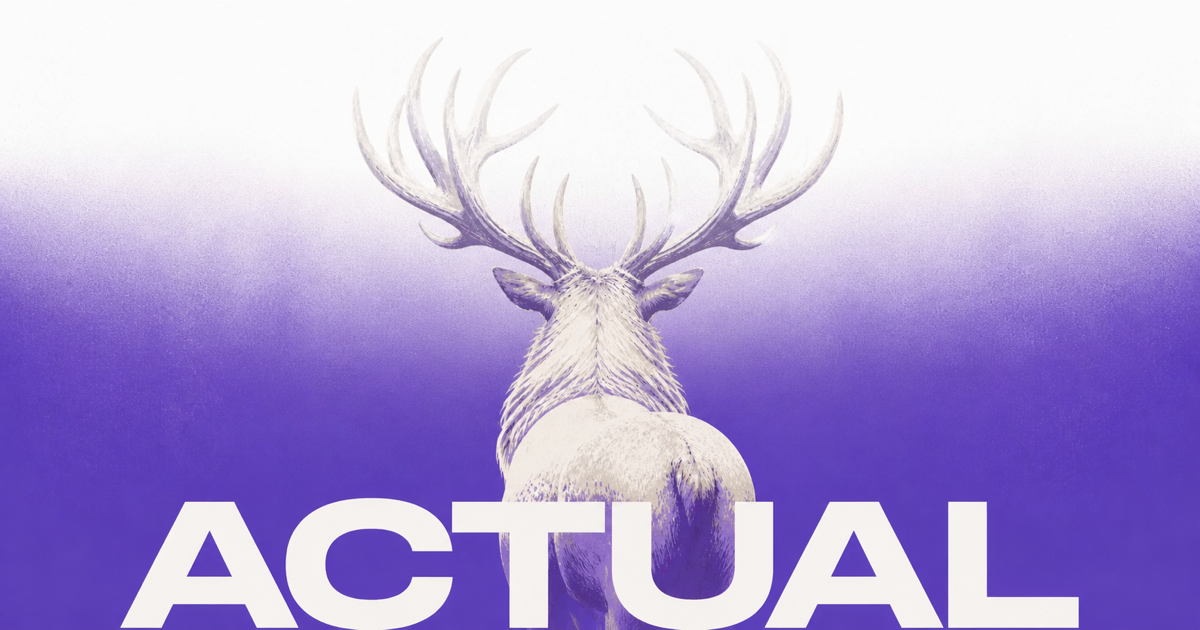
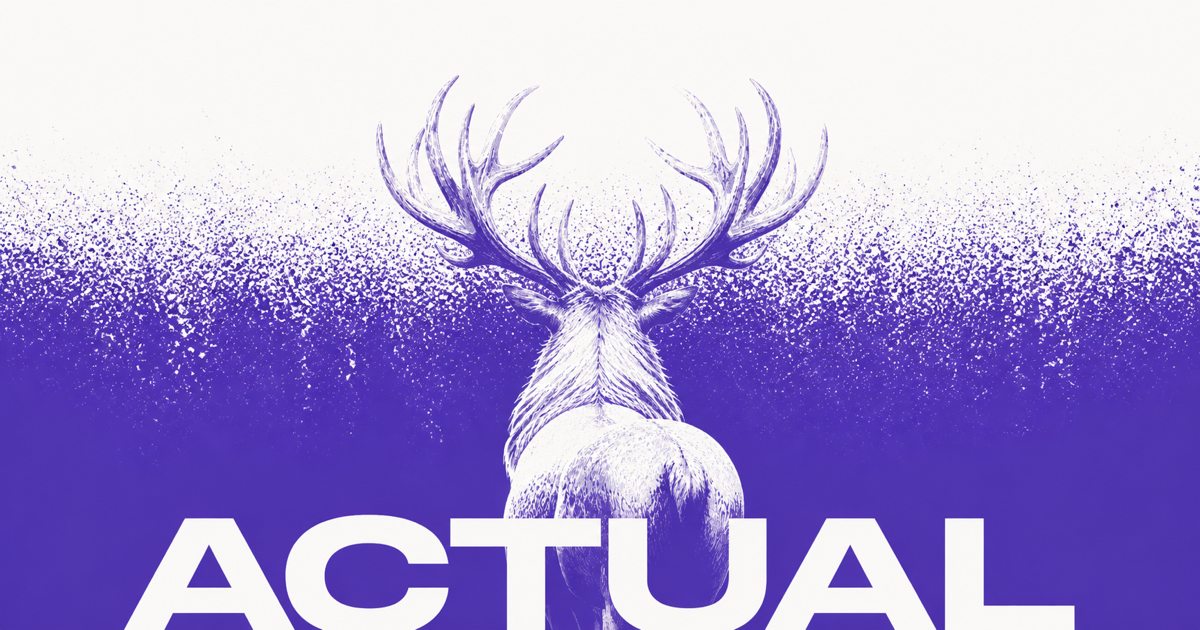
Ground animals in grain dissolve

diff --git a/src/styles.css b/src/styles.css
@@ -4,7 +4,7 @@
 :root{
   color-scheme:light;
   --paper:#fff;
-  --background:#3155d5;
+  --background:#114bc6;
   --ink:#f6eddd;
   --pointer-x:0;
   --pointer-y:0;
@@ -16,11 +16,11 @@
   font-synthesis:none;
 }
 
-html[data-scene="0"]{--background:#3155d5;--ink:#f6eddd}
-html[data-scene="1"]{--background:#e34b37;--ink:#fff0dc}
-html[data-scene="2"]{--background:#6c49ce;--ink:#fff0c9}
-html[data-scene="3"]{--background:#129768;--ink:#fff0d8}
-html[data-scene="4"]{--background:#f2a51a;--ink:#101e31}
+html[data-scene="0"]{--background:#114bc6;--ink:#f6eddd}
+html[data-scene="1"]{--background:#e52e14;--ink:#fff0dc}
+html[data-scene="2"]{--background:#6038c4;--ink:#fff0c9}
+html[data-scene="3"]{--background:#05a159;--ink:#fff0d8}
+html[data-scene="4"]{--background:#ee9704;--ink:#101e31}
 
 *{box-sizing:border-box}
 html,body{width:100%;min-width:320px;min-height:100%;margin:0;overflow:hidden;background:var(--paper)}
@@ -30,12 +30,14 @@ button{font:inherit}
 
 .visually-hidden{position:absolute!important;width:1px!important;height:1px!important;padding:0!important;margin:-1px!important;overflow:hidden!important;clip:rect(0,0,0,0)!important;white-space:nowrap!important;border:0!important}
 
-.site{position:relative;width:100%;height:100svh;min-height:32rem;overflow:hidden;isolation:isolate;background:var(--background);color:var(--ink);opacity:0;transition:background-color .35s ease,color .35s ease,opacity .55s ease}
+.site{position:fixed;inset:0;width:100%;height:100svh;min-height:32rem;overflow:hidden;isolation:isolate;background:var(--background);color:var(--ink);opacity:0;transition:background-color .35s ease,color .35s ease,opacity .55s ease}
 .site[data-ready="true"]{opacity:1}
-.site::before{content:"";position:absolute;z-index:1;top:0;right:0;left:0;height:clamp(20rem,55svh,40rem);background:linear-gradient(to bottom,var(--paper) 0%,var(--paper) 24%,rgb(255 255 255 / .96) 34%,rgb(255 255 255 / .78) 48%,rgb(255 255 255 / .42) 65%,rgb(255 255 255 / .14) 82%,transparent 100%);pointer-events:none}
+.site::before,.site::after{content:"";position:absolute;z-index:1;right:0;left:0;pointer-events:none}
+.site::before{top:0;height:40svh;background:var(--paper)}
+.site::after{top:34svh;height:32svh;background-image:radial-gradient(ellipse at center,rgb(255 255 255 / .96) 0 38%,transparent 46%),radial-gradient(ellipse at center,rgb(255 255 255 / .82) 0 32%,transparent 44%),radial-gradient(ellipse at center,rgb(255 255 255 / .72) 0 28%,transparent 43%);background-position:0 0,1px 2px,3px 1px;background-size:3px 5px,5px 7px,7px 11px;-webkit-mask-image:linear-gradient(to bottom,#000 0%,#000 12%,rgb(0 0 0 / .84) 30%,rgb(0 0 0 / .54) 55%,rgb(0 0 0 / .2) 78%,transparent 100%);mask-image:linear-gradient(to bottom,#000 0%,#000 12%,rgb(0 0 0 / .84) 30%,rgb(0 0 0 / .54) 55%,rgb(0 0 0 / .2) 78%,transparent 100%)}
 .visual,.visual img,.noscript-image{position:absolute;inset:0;width:100%;height:100%}
 .visual{z-index:-1;overflow:hidden;background:var(--background);transition:background-color .35s ease,opacity .22s ease}
-.visual img,.noscript-image{display:block;object-fit:cover;object-position:center;transform:translate3d(calc(var(--pointer-x) * -8px),calc(var(--pointer-y) * -6px),0) scale(1.018);transition:transform .8s var(--ease),opacity .22s ease;user-select:none;-webkit-user-drag:none}
+.visual img,.noscript-image{display:block;object-fit:cover;object-position:center bottom;transform:translate3d(calc(var(--pointer-x) * -8px),0,0) scale(1.018);transform-origin:center bottom;transition:transform .8s var(--ease),opacity .22s ease;user-select:none;-webkit-user-drag:none}
 .site[data-switching="true"] .visual{opacity:0}
 .noscript-image{display:none}
 
@@ -51,10 +53,11 @@ button:focus-visible,a:focus-visible{outline:1px solid currentColor;outline-offs
 @media(max-width:760px){
   :root{--edge:1rem}
   .site{min-height:36rem}
-  .site::before{height:52svh}
+  .site::before{height:38svh}
+  .site::after{top:32svh;height:30svh}
   .wordmark{bottom:2rem;font-size:25.2vw;line-height:.7}
   .scene-control,.contact{font-size:.54rem}
-  .visual img,.noscript-image{object-fit:contain;transform:translate3d(0,0,0) scale(1.012)}
+  .visual img,.noscript-image{object-fit:contain;object-position:center bottom;transform:none}
 }
 
 @media(max-height:620px) and (min-width:761px){
@@ -63,5 +66,5 @@ button:focus-visible,a:focus-visible{outline:1px solid currentColor;outline-offs
 
 @media(prefers-reduced-motion:reduce){
   *,*::before,*::after{animation-duration:.001ms!important;animation-iteration-count:1!important;scroll-behavior:auto!important;transition-duration:.001ms!important}
-  .visual img{transform:scale(1.018)!important}
+  .visual img{transform:scale(1.018)!important;transform-origin:center bottom}
 }
